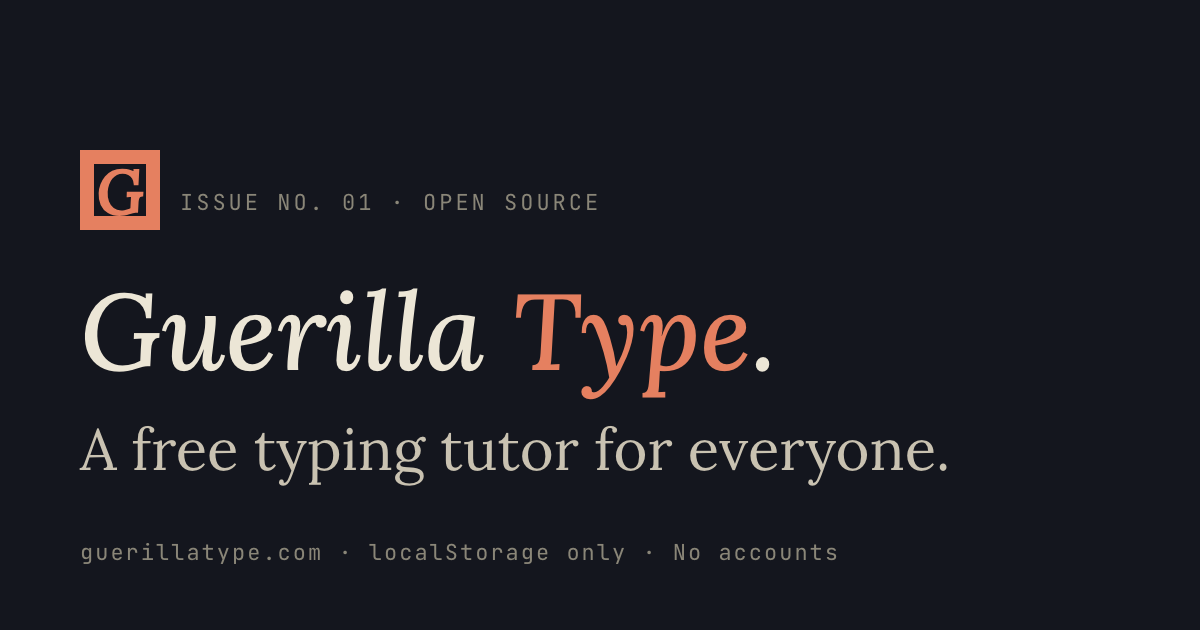
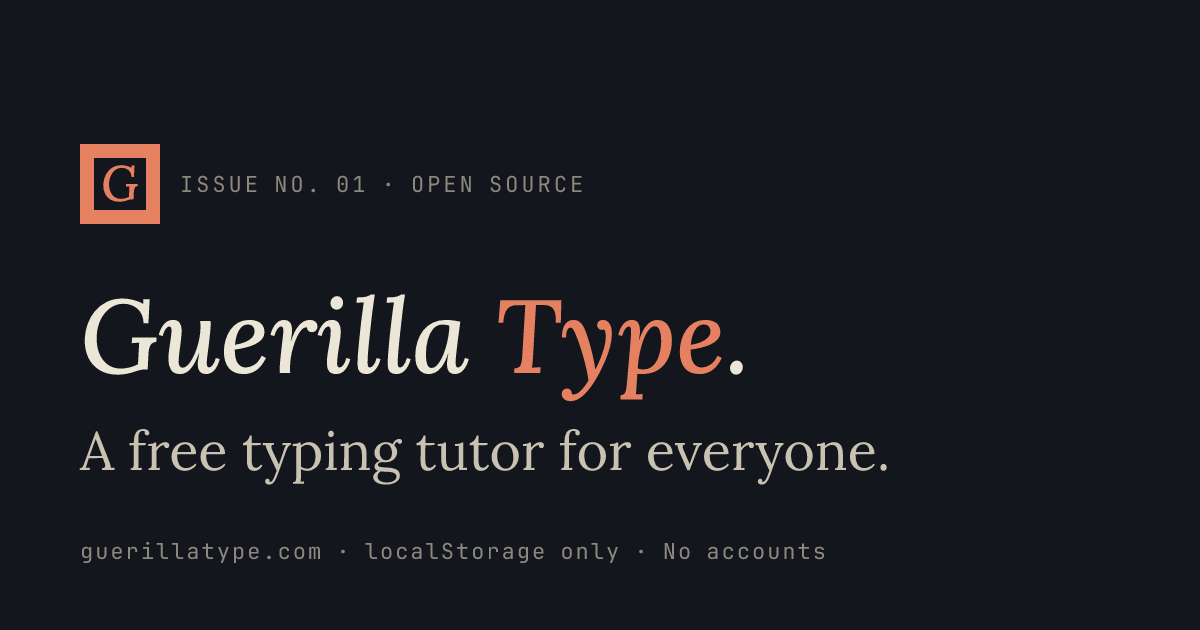
feat(og): build-time card generation, and a height budget that holds
scripts/gen-og-images.mjs renders every card a share link can point at:
1,547 corpus items, 271 books, 500 lessons, 38 challenges, 71 drills,
and the 1,212-card Free-plan result grid (wpm 0-200 plus 200+, six
accuracy bands). 3,639 PNGs, 131 MB, 141 s on six threads. None of it
is committed — _site is gitignored — except og-default.png, which the
same renderer now draws instead of the Phase D0 Playwright screenshot.

The default card is written only when its bytes change. Rewriting it on
every build would dirty the tree and, worse, would make
check-og-meta.mjs abort: that gate compares _site/index.html's mtime
against src/assets/img/og-default.png and calls the build stale.

Skipping: a card is rebuilt when its data file, ANY file in lib/og/,
the Node glue, this script or a font is newer than the PNG. Keying
staleness on the data alone would ship yesterday's design after a
card.js edit.

The layout fix behind this commit: the content card was overflowing its
box in both directions because the middle region was vertically
centred. The Aesop fable with a 48-character title and a 117-character
moral lost its first line of title AND three lines of text. Now the
card measures what it is about to draw (average glyph advance per
family, wrapped text = lines x size x lineHeight, a single-line div =
1.15em — all read off real renders), gives the excerpt whatever is
left, and pads itself down from the top so an underestimate can only
ever clip the bottom of the excerpt.
[…]

diff --git a/lib/og/card.js b/lib/og/card.js
@@ -107,6 +107,32 @@ function fitExcerpt(s) {
   return 20;
 }
 
+/* ── guessing heights without a layout engine ─────────────────────
+   satori gives no way to measure text before it lays the card out, and
+   rendering twice would double a 140-second build. So the card
+   estimates, from numbers measured off real renders of these fonts:
+
+     - average glyph advance, as a fraction of the em, per family
+     - a WRAPPED block is lines x fontSize x lineHeight (confirmed:
+       Lora 33px at 1.18 stepped 39px, mono 20px at 1.5 stepped 30px)
+     - a SINGLE-LINE div ignores lineHeight and is about 1.15em tall
+       (measured 1.08; rounded up, because being wrong in the other
+       direction clips text)
+
+   Everything downstream is deliberately pessimistic: a slightly short
+   excerpt is a card, a slightly long one is a card with its head cut
+   off. */
+const ADV = { serif: 0.50, serifItalic: 0.47, sans: 0.52, mono: 0.60 };
+const W_INNER = CARD.width - CARD.pad * 2;        // 1072
+const W_PANEL = W_INNER - 52 - 4;                 // panel padding + rule
+const LINE_BOX = 1.15;                            // single-line div
+
+function estWrap(len, size, lh, width, adv, maxLines = 99) {
+  const perLine = Math.max(8, Math.floor(width / (size * adv)));
+  const lines = Math.min(maxLines, Math.max(1, Math.ceil(len / perLine)));
+  return { lines, perLine, h: Math.round(lines * size * lh) };
+}
+
 /* ── shared furniture ────────────────────────────────────────────── */
 
 /* The brand mark from og-default.svg: an accent square with a square
@@ -174,7 +200,7 @@ function shell([header, middle, footer]) {
       height: CARD.height - 8, padding: `44px ${CARD.pad}px 40px`, width: "100%",
     }, [
       col({ height: BODY.header, width: "100%", flexShrink: 0, overflow: "hidden" }, [header]),
-      col({ height: BODY.middle, width: "100%", flexShrink: 0, overflow: "hidden", justifyContent: "center" }, [middle]),
+      col({ height: BODY.middle, width: "100%", flexShrink: 0, overflow: "hidden", justifyContent: "flex-start" }, [middle]),
       col({ height: BODY.footer, width: "100%", flexShrink: 0, justifyContent: "flex-end" }, [footer]),
     ]),
   ]);
@@ -260,7 +286,7 @@ function resultCard(m) {
 
   return shell([
     eyebrowRow(SITE.resultEyebrow, m.date ? dateLabel(m.date) : null),
-    col({ width: "100%" }, middle),
+    col({ width: "100%", paddingTop: m.variant === "grid" ? 90 : 4 }, middle),
     footerRow(SITE.resultFooter, chips),
   ]);
 }
@@ -279,7 +305,10 @@ function dateLabel(iso) {
 function excerptBody(c, opts = {}) {
   const maxLines = opts.maxLines || CAPS.poemLines;
   if (c.lines && c.lines.length) {
-    const lines = c.lines.slice(0, maxLines).map((l) => clamp(l, CAPS.line));
+    /* A verse line that wraps stops looking like verse, so lines are
+       clamped to what one panel row actually holds at this size. */
+    const lineCap = opts.lineCap || CAPS.line;
+    const lines = c.lines.slice(0, maxLines).map((l) => clamp(l, lineCap));
     if (c.lines.length > maxLines) lines[lines.length - 1] += " …";
     const size = opts.size || (lines.length > 5 ? 24 : 27);
     return lines.map((l, i) => text({
@@ -315,40 +344,67 @@ function contentCard(m) {
      the text goes in the panel below it. */
   const headlineIsText = kind === "quote" || kind === "idiom";
   const headline = clamp(headlineIsText ? c.text || c.title || "" : c.title || "", CAPS.title);
+  const titleSize = fitTitle(headline);
 
   const middle = [];
-  if (headlineIsText) {
-    middle.push(text({
-      ...serif(fitTitle(headline), 600, COLORS.fg), lineHeight: 1.18, width: "100%",
-    }, kind === "quote" ? `“${headline}”` : headline));
-  } else {
-    middle.push(text({
-      ...serif(fitTitle(headline), 600, COLORS.fg), lineHeight: 1.18, width: "100%",
-    }, headline));
-  }
+  let used = 0;
+
+  const title = estWrap(headline.length + (kind === "quote" ? 2 : 0), titleSize, 1.18, W_INNER, ADV.serif, 4);
+  used += title.h;
+  middle.push(text({
+    ...serif(titleSize, 600, COLORS.fg), lineHeight: 1.18, width: "100%",
+  }, kind === "quote" ? `“${headline}”` : headline));
 
   const byline = bylineOf(c);
   if (byline) {
+    used += 16 + estWrap(byline.length + 2, 26, 1.3, W_INNER, ADV.sans, 2).h;
     middle.push(text({ ...sans(26, 400, COLORS.fg1), marginTop: 16 }, `— ${byline}`));
   }
 
-  const note = c.meaning ? `Meaning: ${c.meaning}` : c.moral ? `Moral: ${c.moral}` : null;
-  if (note) {
+  const rawNote = c.meaning ? `Meaning: ${c.meaning}` : c.moral ? `Moral: ${c.moral}` : null;
+  if (rawNote) {
+    const note = clamp(rawNote, CAPS.meaning);
+    used += 18 + estWrap(note.length, 27, 1.4, W_INNER, ADV.serifItalic, 3).h;
     middle.push(text({
       ...serifItalic(27, COLORS.secondary), marginTop: 18, lineHeight: 1.4, width: "100%",
-    }, clamp(note, CAPS.meaning)));
+    }, note));
   }
 
+  /* Whatever room is left goes to the excerpt — and the excerpt is
+     trimmed to fit it, rather than the panel being a fixed size that a
+     long title quietly pushes off the bottom. Before this, the Aesop
+     parable with a 48-character title and a 117-character moral lost
+     BOTH its first title line and its last three lines of text. */
   if (!headlineIsText) {
-    const body = excerptBody(c);
-    if (body.length) middle.push(col({ marginTop: 22, width: "100%" }, [excerptPanel(body, 232)]));
+    const room = Math.max(0, BODY.middle - used - 22);
+    const panelH = Math.min(258, room);
+    const size = 24;
+    const rows = Math.floor((panelH - 40) / Math.round(size * (c.lines ? LINE_BOX : 1.5)));
+    if (rows >= 2) {
+      const perLine = Math.floor(W_PANEL / (size * ADV.mono));
+      const opts = c.lines
+        ? { maxLines: Math.min(CAPS.poemLines, rows), size, lineCap: perLine - 2 }
+        : { size, cap: Math.min(CAPS.prose, Math.floor(rows * perLine * 0.88)) };
+      const body = excerptBody(c, opts);
+      if (body.length) {
+        /* Shrink the panel to what went in it, plus a row of slack for
+           an unlucky wrap: an oversized panel leaves the card looking
+           top-heavy, an undersized one slices a line in half. */
+        const fill = c.lines
+          ? body.length * Math.round(size * LINE_BOX) + (body.length - 1) * 2 + 40
+          : estWrap(Math.min(String(c.text).length, opts.cap), size, 1.5, W_PANEL, ADV.mono).h + Math.round(size * 1.5) + 40;
+        const h = Math.max(80, Math.min(panelH, fill));
+        used += 22 + h;
+        middle.push(col({ marginTop: 22, width: "100%" }, [excerptPanel(body, h)]));
+      }
+    }
   }
 
   const chips = [chip(KIND_EYEBROW[kind] ? titleCase(kind) : String(kind), COLORS.secondary)];
 
   return shell([
     eyebrowRow(`GUERILLATYPE · ${eyebrow}`, null),
-    col({ width: "100%", overflow: "hidden" }, middle),
+    col({ width: "100%", paddingTop: Math.max(0, Math.floor((BODY.middle - used) / 2)) }, middle),
     footerRow(SITE.contentFooter, chips),
   ]);
 }
@@ -372,7 +428,7 @@ export function defaultCard() {
     /* og-default.svg puts the brand tile's top edge at y=150 and the
        footer baseline at y=560. Centring alone lands 24px high, so the
        block is pushed back down with padding. */
-    paddingTop: 68,
+    paddingTop: 80,
   }, [
     row({ alignItems: "center", marginBottom: 54 }, [
       h("div", {
